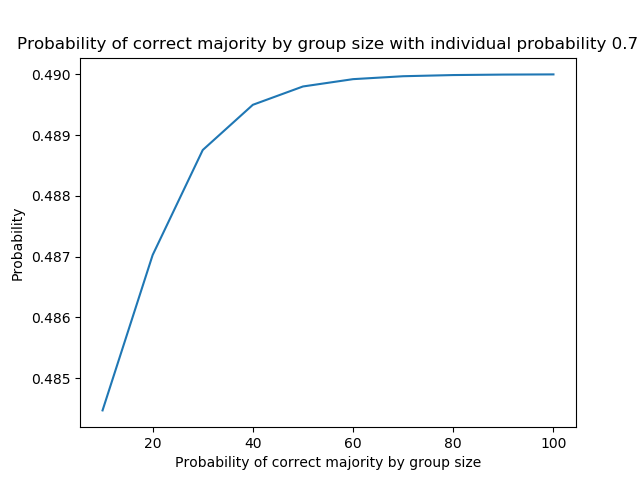
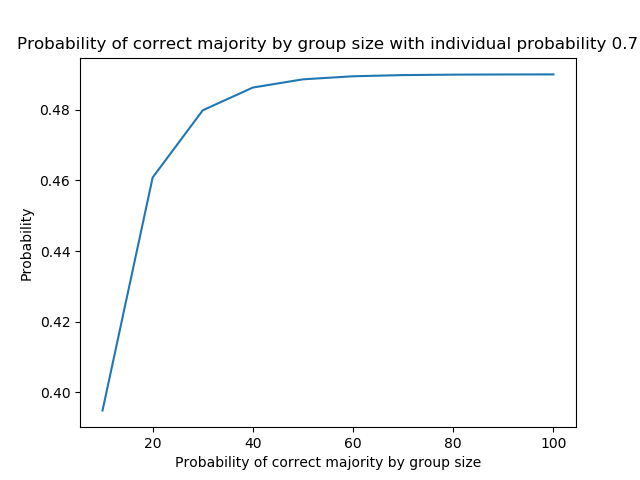
fixed error in majority.py

diff --git a/majority.py b/majority.py
@@ -16,9 +16,9 @@ def probability(c,p):
     output = 0
     pascal = pascaline(c - 1)
     if (c % 2 == 0):
-        limit = int(c/2 + 1)
+        limit = int(c/2 - 1)
     else:
-        limit = int(c/2 + 0.5)
+        limit = int(c/2 - 0.5)
     for i in range(0,limit):
         output += pascal[i] * (p ** (c-i) * (1-p) ** i)
     return output
